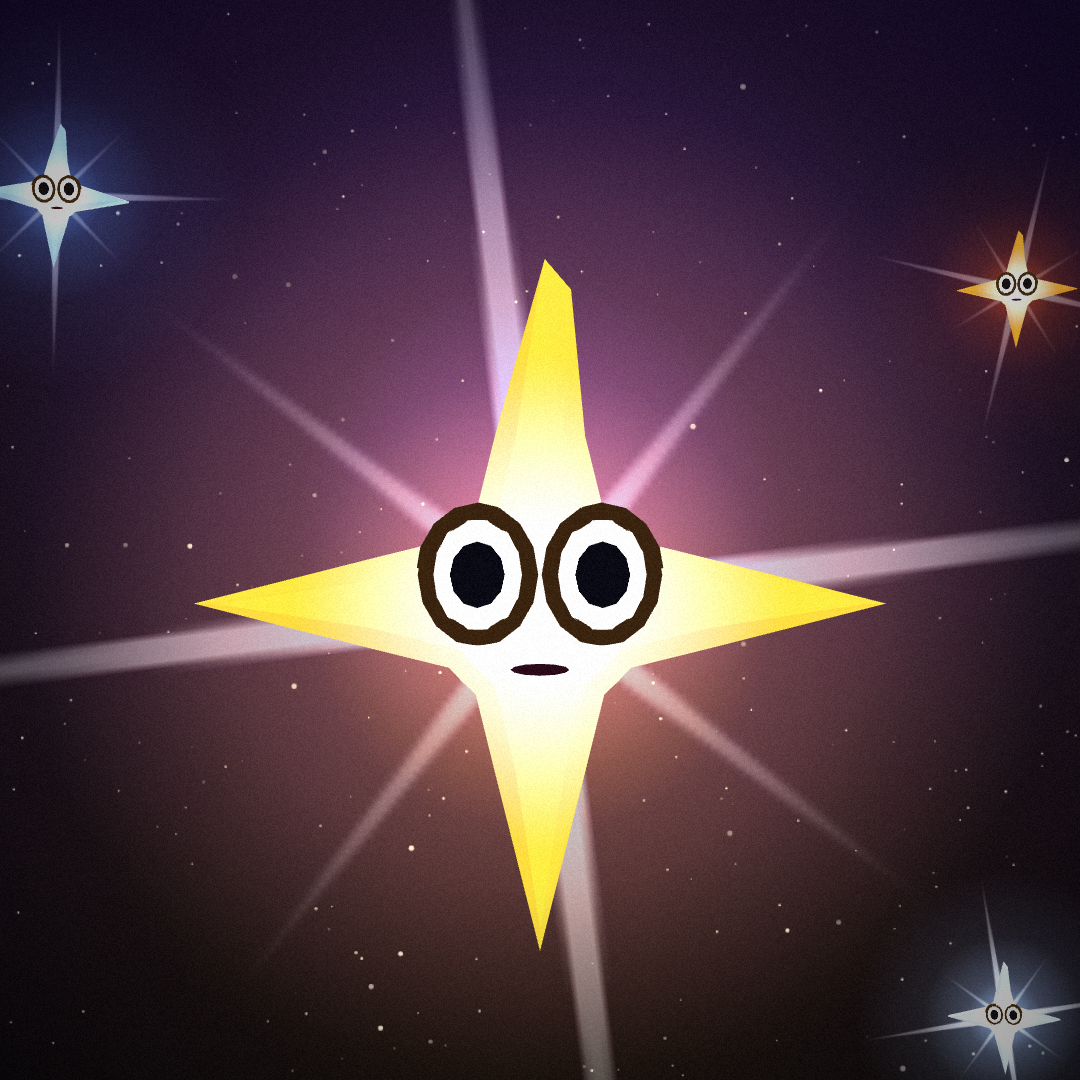
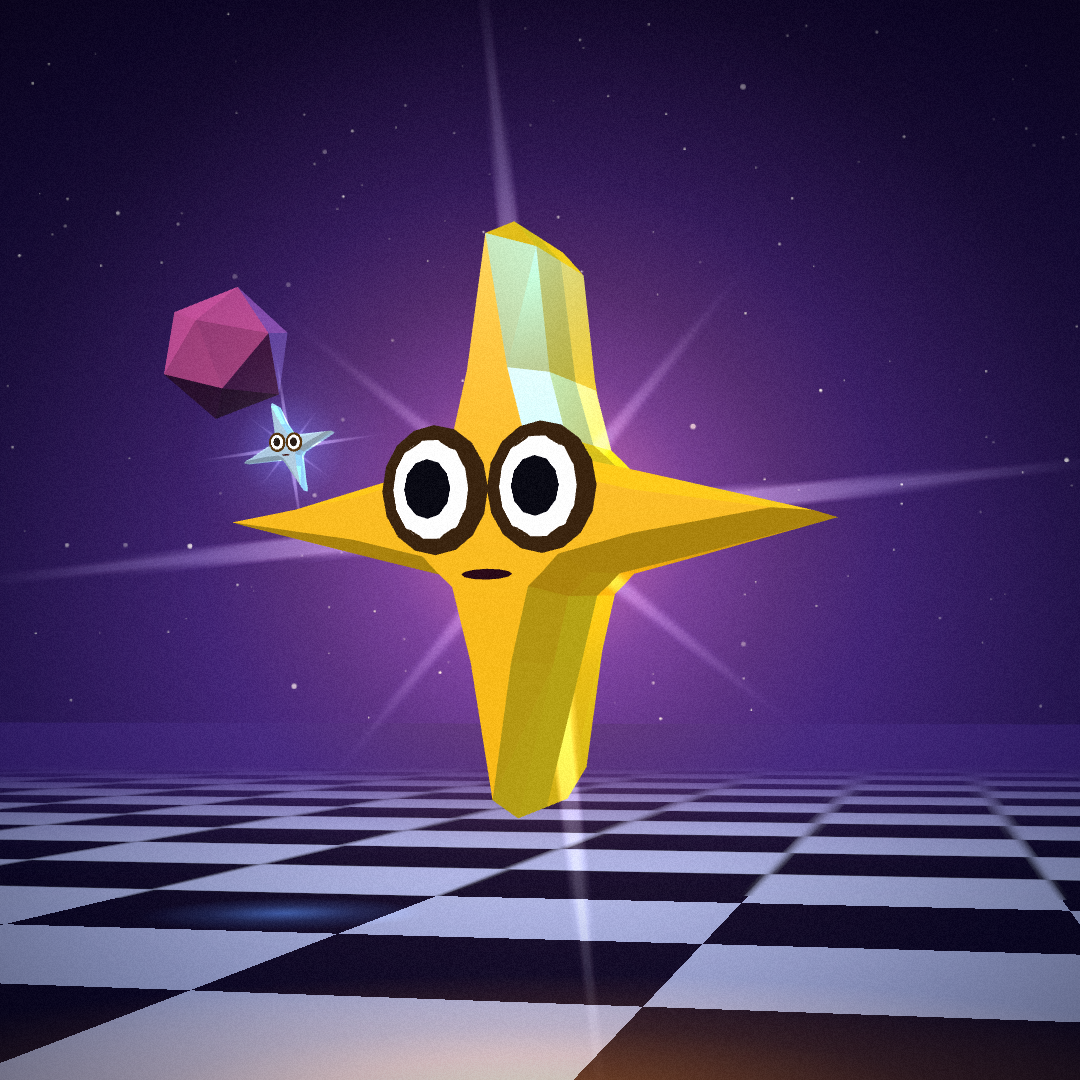
Give the profile pictures the reels' 3D look
Each avatar now sits in a lit 3D world: a checker floor running to a foggy
horizon, floating low-poly shapes, a warm key light and a coloured rim
light. The stars are chunky, faceted and lit (not self-lit), turned a
little so their thickness shows, with a softer halo.

Claude-Session: https://claude.ai/code/session_01NckJ5Yo5pYXcdBAUugDPVo

diff --git a/reels/engine/pfp.js b/reels/engine/pfp.js
@@ -10,9 +10,10 @@ import * as THREE from 'three'
 import { makeRng } from './rng.js'
 import { makeFigure, makeSpecies } from './actors.js'
 import { loadFonts } from './reel.js'
+import { checkerTexture } from './textures.js'
 
 const SIZE = 1080
-const GOLD = '#ffd23a'
+const GOLD = '#ffc61a'
 
 // A night-sky backdrop: deep violet to indigo, a soft glow behind the subject,
 // and a scatter of small stars.
@@ -40,6 +41,23 @@ function backdrop(seed, { glow = '#6b3cff', top = '#140a33', bottom = '#05040f' 
     ctx.arc(x, y, s, 0, Math.PI * 2)
     ctx.fill()
   }
+  const t = new THREE.CanvasTexture(c)
+  t.colorSpace = THREE.SRGBColorSpace
+  return t
+}
+
+function poolTexture(color) {
+  const c = document.createElement('canvas')
+  c.width = c.height = 128
+  const ctx = c.getContext('2d')
+  const col = new THREE.Color(color)
+  const rgb = `${Math.round(col.r * 255)},${Math.round(col.g * 255)},${Math.round(col.b * 255)}`
+  const g = ctx.createRadialGradient(64, 64, 0, 64, 64, 64)
+  g.addColorStop(0, `rgba(${rgb},0.55)`)
+  g.addColorStop(0.5, `rgba(${rgb},0.18)`)
+  g.addColorStop(1, `rgba(${rgb},0)`)
+  ctx.fillStyle = g
+  ctx.fillRect(0, 0, 128, 128)
   const t = new THREE.CanvasTexture(c)
   t.colorSpace = THREE.SRGBColorSpace
   return t
@@ -129,15 +147,40 @@ export async function renderPfp(variant = 'star', { seed = 'pfp', label = 'align
   renderer.setSize(SIZE, SIZE, false)
   renderer.outputColorSpace = THREE.SRGBColorSpace
   const scene = new THREE.Scene()
-  const camera = new THREE.PerspectiveCamera(32, 1, 0.1, 100)
+  const camera = new THREE.PerspectiveCamera(34, 1, 0.1, 200)
   const rng = makeRng('pfp/' + seed)
-  scene.add(new THREE.HemisphereLight('#cfd8ff', '#20143a', 1.2))
-  const sun = new THREE.DirectionalLight('#ffffff', 1.4)
-  sun.position.set(2, 4, 5)
-  scene.add(sun)
+  const warm = variant === 'popup' || variant === 'gaze'
+  const horizon = warm ? '#5a2a6e' : '#3a2380'
 
-  // the classic slim, curved ✦
-  const spawn = makeSpecies(rng.fork('species'), [], { eyes: 2, inner: 0.28, curve: 0.6, depth: 0.16 })
+  // ---- the world: a checker floor running to a foggy horizon, like the reels
+  scene.background = backdrop(seed, { glow: warm ? '#ff9f2e' : '#7a3cff', top: warm ? '#1d0f3a' : '#120833', bottom: horizon })
+  scene.fog = new THREE.Fog(horizon, 9, 34)
+  const floor = new THREE.Mesh(
+    new THREE.PlaneGeometry(240, 240),
+    new THREE.MeshPhongMaterial({ map: checkerTexture('#160d33', '#d9d2ff', 2, 70), shininess: 60, specular: '#8a7cff' }),
+  )
+  floor.rotation.x = -Math.PI / 2
+  scene.add(floor)
+  // a few low-poly shapes floating in the distance
+  const shapes = [() => new THREE.OctahedronGeometry(0.7, 0), () => new THREE.TorusGeometry(0.6, 0.2, 6, 12), () => new THREE.IcosahedronGeometry(0.6, 0)]
+  for (let i = 0; i < 5; i++) {
+    const m = new THREE.Mesh(rng.pick(shapes)(), new THREE.MeshPhongMaterial({ color: rng.pick(['#ff6ad5', '#9fd0ff', '#ffb347', '#b9a3ff']), flatShading: true, shininess: 80 }))
+    m.position.set(rng.sign() * rng.range(3, 8), rng.range(1.5, 5), rng.range(-14, -6))
+    m.rotation.set(rng.range(0, 3), rng.range(0, 3), 0)
+    scene.add(m)
+  }
+
+  // ---- light: soft fill, a warm key from the front, a coloured rim from behind
+  scene.add(new THREE.HemisphereLight('#b9b0ff', '#1a0f33', 0.55))
+  const key = new THREE.DirectionalLight('#fff1d6', 2.2)
+  key.position.set(-3, 5, 6)
+  scene.add(key)
+  const rim = new THREE.DirectionalLight(warm ? '#ff7ad9' : '#5ad8ff', 2.4)
+  rim.position.set(4, 3, -5)
+  scene.add(rim)
+
+  // chunky, faceted stars so they read as solid objects
+  const spawn = makeSpecies(rng.fork('species'), [], { eyes: 2, inner: 0.28, curve: 0.6, depth: 0.32 })
   const t = 1.3 // a moment where nobody is blinking
   // pos is where the star's centre should be; it hovers inside its group, so
   // place it, measure where it ended up, and shift it there
@@ -145,48 +188,63 @@ export async function renderPfp(variant = 'star', { seed = 'pfp', label = 'align
     const s = spawn(0, rng.fork('s' + pos.x + pos.y), { color })
     s.object.scale.setScalar(size)
     scene.add(s.object)
+    const body = s.object.children[0]
+    // lit gold instead of the reels' self-lit glow: facets, highlights, shadow side
+    body.children[0].material = new THREE.MeshPhongMaterial({
+      color, emissive: new THREE.Color(color).multiplyScalar(0.4), specular: '#fff6d8', shininess: 90, flatShading: true,
+    })
     s.update(t, {})
     s.object.updateMatrixWorld(true)
-    const at = s.object.children[0].getWorldPosition(new THREE.Vector3())
+    const at = body.getWorldPosition(new THREE.Vector3())
     s.object.position.add(pos.clone().sub(at))
+    // a pool of its light on the floor below it
+    const pool = new THREE.Mesh(
+      new THREE.CircleGeometry(1, 32),
+      new THREE.MeshBasicMaterial({ map: poolTexture(color), transparent: true, depthWrite: false, blending: THREE.AdditiveBlending }),
+    )
+    pool.rotation.x = -Math.PI / 2
+    pool.position.set(pos.x, 0.02, pos.z)
+    pool.scale.setScalar(size * 1.6)
+    scene.add(pool)
     return s
   }
   const stars = []
   let figure = null
+  // where each star looks: slightly past the camera, so it turns a little and
+  // shows its thickness
+  let lookOffset = new THREE.Vector3(-1.4, 0, 0)
 
   if (variant === 'star' || variant === 'popup') {
-    scene.background = backdrop(seed, { glow: variant === 'popup' ? '#ff9f2e' : '#7a3cff', top: variant === 'popup' ? '#1d0f3a' : '#120833' })
-    const s = star(GOLD, variant === 'popup' ? 1.25 : 1.45, new THREE.Vector3(0, 0.05, 0))
-    stars.push(s)
-    for (const [c, x, y, z, k] of [['#9fd0ff', -1.9, 1.5, -3, 0.5], ['#ff9d2e', 2.0, 1.2, -3.5, 0.45], ['#cfe6ff', 1.7, -1.6, -2.5, 0.35]]) {
-      if (variant === 'popup') break
-      stars.push(star(c, k, new THREE.Vector3(x, y, z)))
+    stars.push(star(GOLD, variant === 'popup' ? 1.25 : 1.45, new THREE.Vector3(0, 1.55, 0)))
+    if (variant === 'star') {
+      stars.push(star('#9fd0ff', 0.45, new THREE.Vector3(-2.2, 2.4, -4)))
+      stars.push(star('#ff9d2e', 0.4, new THREE.Vector3(2.4, 2.1, -5)))
     }
-    camera.position.set(0, 0.15, 4.4)
-    camera.lookAt(0, 0.15, 0)
+    camera.position.set(1.0, 1.05, 4.6)
+    camera.lookAt(0, 1.5, 0)
   } else if (variant === 'aura') {
-    scene.background = backdrop(seed, { glow: aura.color, top: '#0d0824', bottom: '#030208' })
     figure = makeFigure(rng.fork('fig'), { hue: 0.75, skyTop: '#bfa8ff', skyLow: '#1a1030', aura, glyph: '✦' })
+    figure.face(0.35)
     scene.add(figure.object)
-    stars.push(star(GOLD, 0.6, new THREE.Vector3(0, 2.45, 0.1)))
-    camera.position.set(0, 1.75, 5.2)
-    camera.lookAt(0, 1.6, 0)
+    stars.push(star(GOLD, 0.5, new THREE.Vector3(0, 2.4, 0.1)))
+    camera.position.set(0.9, 1.0, 5.0)
+    camera.lookAt(0, 1.45, 0)
   } else if (variant === 'gaze') {
-    scene.background = backdrop(seed, { glow: '#ff9f2e', top: '#160a30', bottom: '#05040f' })
     figure = makeFigure(rng.fork('fig'), { hue: 0.6, skyTop: '#ffd9a8', skyLow: '#1a1030', aura: { color: '#f39a3a', light: '#ffd09a' }, glyph: '✦' })
-    figure.face(Math.PI)
-    figure.object.position.set(-0.75, 0, 1.4)
+    figure.face(Math.PI - 0.3)
+    figure.object.position.set(-0.8, 0, 1.6)
     scene.add(figure.object)
-    stars.push(star(GOLD, 1.1, new THREE.Vector3(0.55, 2.55, -1.2)))
-    camera.position.set(-0.2, 1.0, 7.2)
-    camera.lookAt(0.05, 1.75, 0)
+    stars.push(star(GOLD, 1.25, new THREE.Vector3(0.7, 2.9, -2.4)))
+    camera.position.set(-0.4, 0.8, 7.2)
+    camera.lookAt(0.1, 1.9, 0)
+    lookOffset = new THREE.Vector3(0, 0, 0)
   }
 
   scene.updateMatrixWorld(true)
   if (figure) figure.update(t, { look: camera.position, power: variant === 'aura' ? 0.85 : 0.6 })
   stars.forEach((s, i) => {
     // look at the camera; in "gaze" the big star looks down at the figure
-    const look = variant === 'gaze' ? figure.object.position.clone().add(new THREE.Vector3(0, 1.3, 0)) : camera.position
+    const look = variant === 'gaze' ? figure.object.position.clone().add(new THREE.Vector3(0, 1.3, 0)) : camera.position.clone().add(lookOffset)
     // each star blinks on its own clock: find a moment its eyes are open
     const eyesOpen = () => {
       let open = true
@@ -204,6 +262,10 @@ export async function renderPfp(variant = 'star', { seed = 'pfp', label = 'align
     for (let k = 0; k < 60; k++) s.update(st, { look, alert: 1, talk: 0 })
     // the main star stands upright, facing you
     if (i === 0) s.object.children[0].children[0].rotation.z = 0
+    // keep the halo, but softer, so the star's own shape does the work
+    const glow = s.object.children[0].children[1]
+    glow.material.opacity *= 0.5
+    glow.scale.multiplyScalar(0.75)
   })
   renderer.render(scene, camera)
 
@@ -211,13 +273,10 @@ export async function renderPfp(variant = 'star', { seed = 'pfp', label = 'align
   out.width = out.height = SIZE
   const ctx = out.getContext('2d')
   if (variant === 'popup') {
+    // the world behind, dimmed, and the window on top showing the star
     ctx.drawImage(glCanvas, 0, 0)
-    // fill the background with the same sky, then the window on top
-    const bg = document.createElement('canvas')
-    bg.width = bg.height = SIZE
-    const bctx = bg.getContext('2d')
-    bctx.drawImage(scene.background.image, 0, 0, SIZE, SIZE)
-    ctx.drawImage(bg, 0, 0)
+    ctx.fillStyle = 'rgba(8,4,20,0.55)'
+    ctx.fillRect(0, 0, SIZE, SIZE)
     popupFrame(ctx, glCanvas, label)
   } else {
     ctx.drawImage(glCanvas, 0, 0)

diff --git a/reels/README.md b/reels/README.md
@@ -96,7 +96,7 @@ The player is also the review desk:
 
 | file | what |
 | --- | --- |
-| `pfp-star.png` | one gold ✦ star with eyes, looking at you |
+| `pfp-star.png` | one solid gold ✦ star with eyes over the checker floor, looking at you |
 | `pfp-aura.png` | the holographic figure in its aura, a gold star over its head |
 | `pfp-popup.png` | the star inside the reels' Windows-98 popup, titled `align.exe` |
 | `pfp-gaze.png` | the figure from behind, looking up at a giant star |
